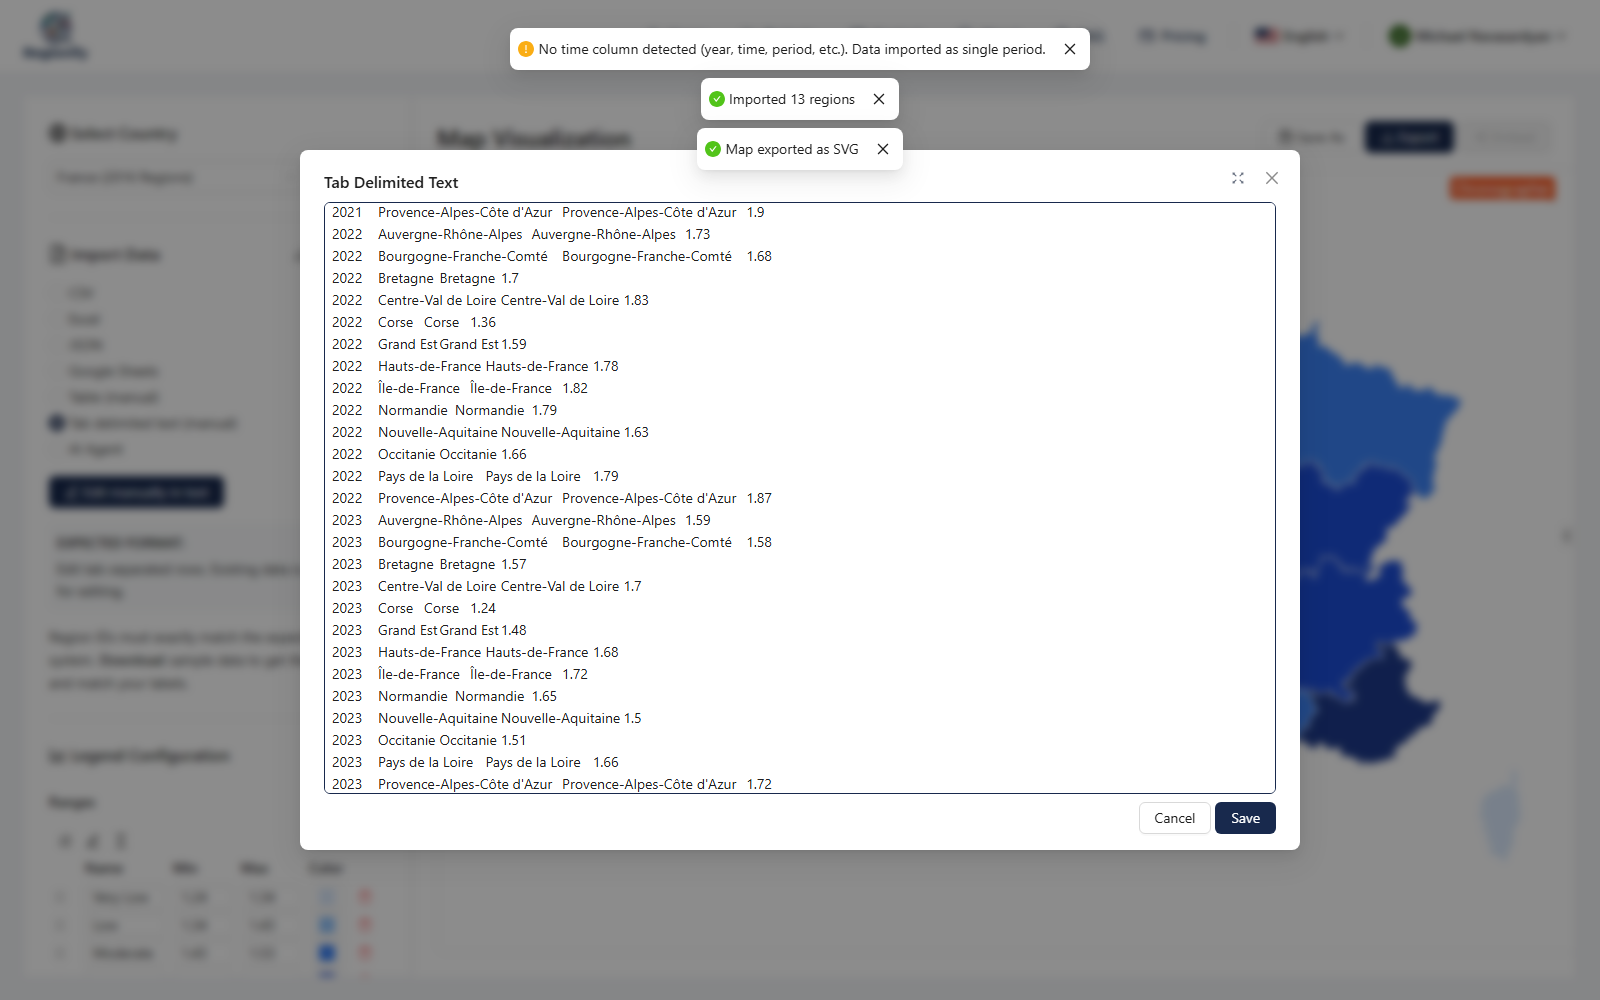
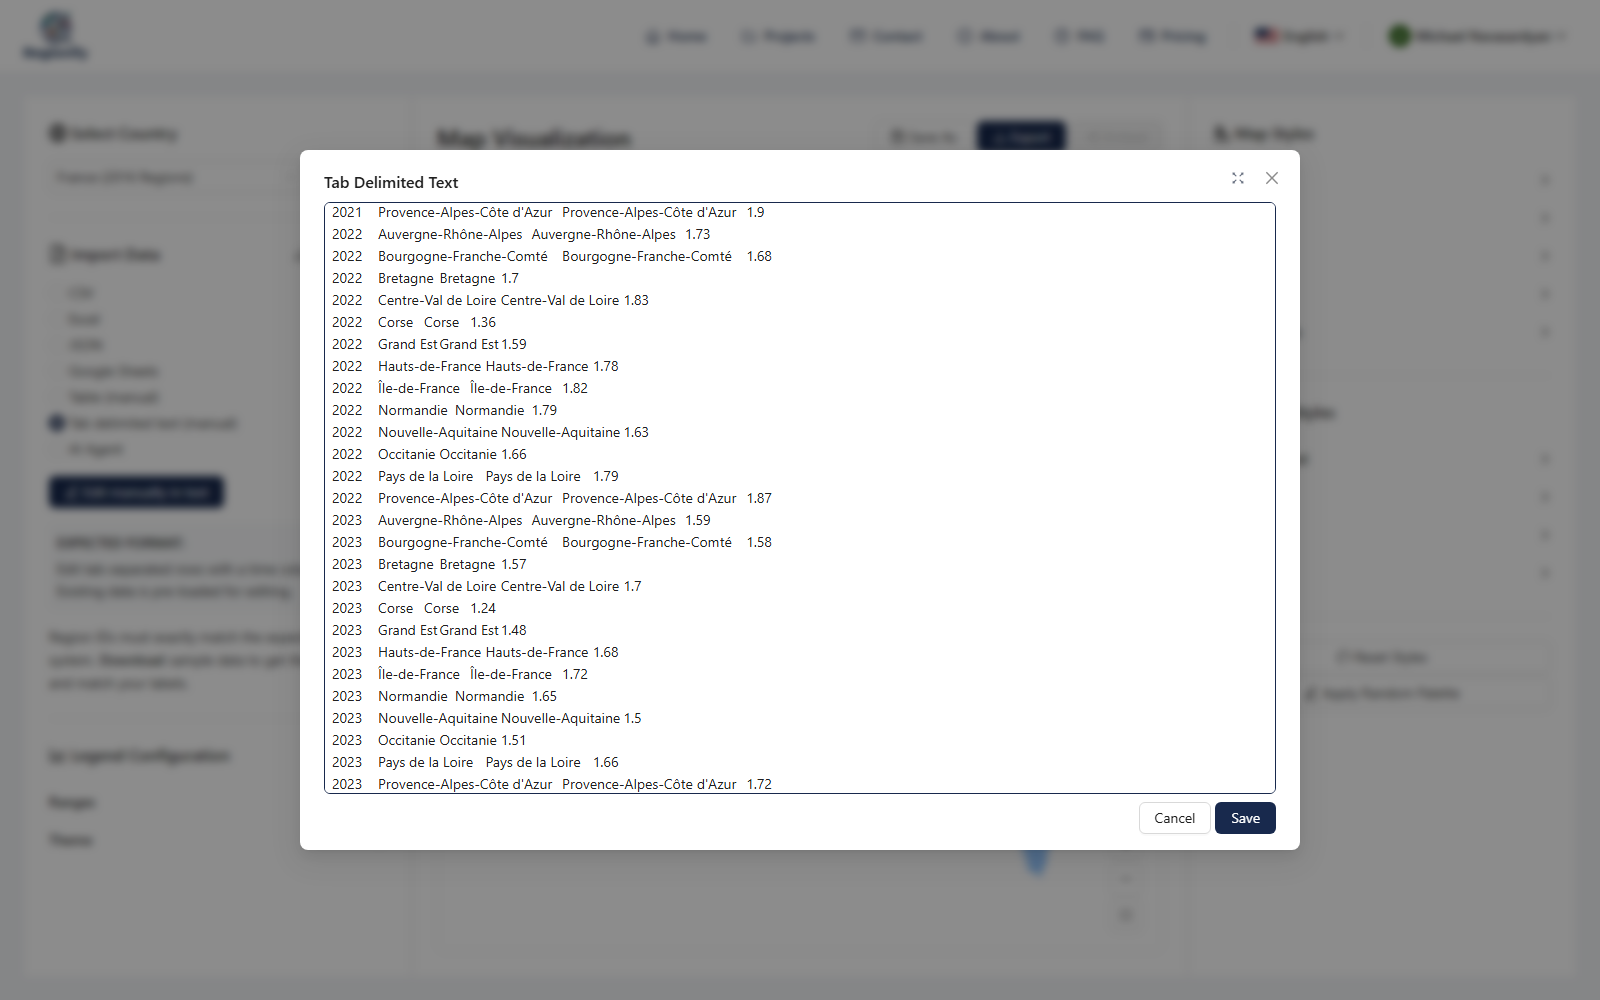
chore(marketing): regenerate embed-guide article screenshots
Refresh all embed-guide.md screenshots against the current app UI and
fix the generator script that produced stale/wrong ones: add a missing
embed-modal screenshot, correct the embed-page screenshot's output
filename to match what the article references, dismiss the newly added
"normalize ranges?" confirm dialog after each import instead of letting
it block later clicks, stop the final re-import from overwriting the
Step 1 screenshot with one showing a stray export toast, and delete any
pre-existing same-named project first so reruns don't pile up
duplicates. Also drops the two stale SVG/GIF preview images the article
no longer uses.

diff --git a/marketing/scripts/playwright-oecd-france-fertility.ts b/marketing/scripts/playwright-oecd-france-fertility.ts
@@ -210,6 +210,35 @@ async function ensureEnglishProfile(context: BrowserContext): Promise<void> {
   }
 }
 
+/**
+ * Deletes a previously-generated "France — OECD Fertility Rate" project, if one exists,
+ * so re-running this script to refresh stale screenshots doesn't pile up duplicate
+ * projects (and duplicate public embed URLs) on the account.
+ */
+async function deleteExistingProjectIfPresent(page: Page): Promise<void> {
+  await page.goto(`${BASE_URL}/projects`);
+  await page.waitForLoadState('networkidle', { timeout: 15_000 }).catch(() => {});
+
+  const searchInput = page.getByPlaceholder('Search projects...');
+  await searchInput.waitFor({ timeout: 15_000 });
+  await searchInput.fill(PROJECT_NAME);
+  await page.waitForTimeout(500);
+
+  const card = page.locator('.ant-card').filter({ hasText: PROJECT_NAME }).first();
+  const exists = await card.isVisible({ timeout: 3_000 }).catch(() => false);
+  if (!exists) {
+    log('✓ no pre-existing project to delete');
+    return;
+  }
+
+  await card.getByRole('button', { name: 'Delete' }).click();
+  const modal = page.locator('.ant-modal:visible').filter({ hasText: 'Delete Project' });
+  await modal.waitFor({ timeout: 10_000 });
+  await modal.getByRole('button', { name: 'Delete' }).click();
+  await modal.waitFor({ state: 'hidden', timeout: 15_000 });
+  log(`✓ deleted pre-existing "${PROJECT_NAME}" project`);
+}
+
 // ---------------------------------------------------------------------------
 // Shared UI helpers (adapted from playwright-asset-generator.ts)
 // ---------------------------------------------------------------------------
@@ -224,6 +253,26 @@ async function switchOn(switchEl: Locator): Promise<void> {
   if ((await switchEl.getAttribute('aria-checked')) !== 'true') {
     await switchEl.click();
   }
+}
+
+/**
+ * Every import offers to normalize the legend ranges to the new data's min/max via an
+ * AntD `Modal.confirm` (separate from the regular `.ant-modal` flows above). This script
+ * always normalizes explicitly later via {@link normalizeRanges}, so dismiss the prompt
+ * here — otherwise its `.ant-modal-wrap` overlay lingers and swallows the next click.
+ */
+async function dismissNormalizeRangesPromptIfPresent(page: Page): Promise<void> {
+  const confirmModal = page
+    .locator('.ant-modal-confirm:visible')
+    .filter({ hasText: 'Normalize legend ranges' });
+  const appeared = await confirmModal
+    .waitFor({ state: 'visible', timeout: 3_000 })
+    .then(() => true)
+    .catch(() => false);
+  if (!appeared) return;
+  await confirmModal.getByRole('button', { name: 'Cancel' }).click();
+  await confirmModal.waitFor({ state: 'hidden', timeout: 5_000 }).catch(() => {});
+  log('✓ dismissed "normalize ranges?" prompt (normalized explicitly later instead)');
 }
 
 async function closeModal(page: Page): Promise<void> {
@@ -358,9 +407,20 @@ async function pasteTabDelimitedData(page: Page, tabDelimitedData: string): Prom
   const saveBtn = modal.getByRole('button', { name: 'Save' });
   await click(saveBtn);
   await modal.waitFor({ state: 'hidden', timeout: 15_000 }).catch(() => {});
+  await dismissNormalizeRangesPromptIfPresent(page);
 }
 
-async function importOecdData(page: Page, tabDelimitedData: string): Promise<void> {
+/**
+ * `captureScreenshot` defaults to true for the article's Step 1 visual, but must be
+ * turned off for the later re-import (restoring the full time-series before save/embed)
+ * — that call happens right after the SVG export and would otherwise overwrite the
+ * clean Step 1 screenshot with one showing a stray "Map exported as SVG" toast.
+ */
+async function importOecdData(
+  page: Page,
+  tabDelimitedData: string,
+  captureScreenshot = true,
+): Promise<void> {
   const tabDelimitedRadio = page.locator('input[type="radio"][value="tab_delimited"]');
   await tabDelimitedRadio.waitFor({ timeout: 10_000 });
   const tabDelimitedLabel = page
@@ -384,17 +444,20 @@ async function importOecdData(page: Page, tabDelimitedData: string): Promise<voi
   await page.keyboard.press('Control+V');
   await page.waitForTimeout(400);
 
-  // Screenshot the pasted-but-unsaved data for the article's import-step visual.
-  mkdirSync(UI_SCREENSHOTS_DIR, { recursive: true });
-  await page.screenshot({
-    path: join(UI_SCREENSHOTS_DIR, 'oecd-fertility-import-panel.png'),
-    fullPage: false,
-  });
-  log('✓ import panel screenshot saved');
+  if (captureScreenshot) {
+    // Screenshot the pasted-but-unsaved data for the article's import-step visual.
+    mkdirSync(UI_SCREENSHOTS_DIR, { recursive: true });
+    await page.screenshot({
+      path: join(UI_SCREENSHOTS_DIR, 'oecd-fertility-import-panel.png'),
+      fullPage: false,
+    });
+    log('✓ import panel screenshot saved');
+  }
 
   const saveBtn = modal.getByRole('button', { name: 'Save' });
   await click(saveBtn);
   await modal.waitFor({ state: 'hidden', timeout: 15_000 }).catch(() => {});
+  await dismissNormalizeRangesPromptIfPresent(page);
 
   // Excludes `.ant-color-picker-slider` — on a second import (after legend ranges have
   // already been colored once), leftover color-picker popovers can still match a bare
@@ -762,6 +825,12 @@ async function setupEmbed(page: Page): Promise<{ url: string; iframeCode: string
       .catch(() => '')) ?? '';
 
   log(`✓ embed URL: ${url}`);
+
+  // Embed modal screenshot for the article's Step 3 visual — grabbed before closing,
+  // with the generated iframe code already visible.
+  await modal.screenshot({ path: join(UI_SCREENSHOTS_DIR, 'oecd-fertility-embed-modal.png') });
+  log('✓ embed modal screenshot saved');
+
   await closeModal(page);
   return { url, iframeCode: iframeCode.trim() };
 }
@@ -771,7 +840,7 @@ async function screenshotEmbedPage(context: BrowserContext, embedUrl: string): P
   await embedPage.goto(embedUrl, { waitUntil: 'networkidle', timeout: 30_000 });
   await embedPage.waitForTimeout(4_000);
   await embedPage.screenshot({
-    path: join(OUTPUT_DIR, 'france-oecd-fertility-embed-page.png'),
+    path: join(OUTPUT_DIR, 'oecd-fertility-embed-page.png'),
     fullPage: true,
   });
   await embedPage.close();
@@ -814,6 +883,7 @@ async function main(): Promise<void> {
   page.on('pageerror', (err) => log(`pageerror: ${err.message}`));
 
   try {
+    await deleteExistingProjectIfPresent(page);
     await createProject(page);
     await importOecdData(page, tabDelimitedData);
     await addAndNameRanges(page);
@@ -849,7 +919,7 @@ async function main(): Promise<void> {
     // data is currently loaded (which is exactly the state right after a static-mode
     // export), silently replacing the real 2018-2023 fertility series with placeholder
     // numbers before it ever reaches Save/Embed. Re-importing restores the genuine data.
-    await importOecdData(page, tabDelimitedData);
+    await importOecdData(page, tabDelimitedData, false);
     await normalizeRanges(page);
     await jumpTimelineToLastFrame(page);
 

diff --git a/docs/marketing/medium/embed-guide/embed-guide.md b/docs/marketing/medium/embed-guide/embed-guide.md
@@ -88,7 +88,7 @@ Regionify generates the snippet for you:
 
 ```html
 <iframe
-  src="https://regionify.pro/embed/5hXkFnq17g7AtLVdYh73LdVeCe_hcPKW"
+  src="https://regionify.pro/embed/l_9sA5uibnIVuAQ0TECltNMX3ons6qJT"
   width="100%"
   height="560"
   style="border:0"
@@ -102,7 +102,7 @@ Copy that snippet into wherever your site accepts raw HTML — a Custom HTML blo
 
 Medium strips raw `<iframe>` tags from published posts, so here's what that snippet actually renders as on a page that allows it — full pan/zoom/hover, timeline included:
 
-[Open the live embed →](https://regionify.pro/embed/5hXkFnq17g7AtLVdYh73LdVeCe_hcPKW?utm_source=medium&utm_medium=article&utm_campaign=embed-guide)
+[Open the live embed →](https://regionify.pro/embed/l_9sA5uibnIVuAQ0TECltNMX3ons6qJT?utm_source=medium&utm_medium=article&utm_campaign=embed-guide)
 
 ![Screenshot of the live public embed page for the France fertility map](oecd-fertility-embed-page.png)
 
